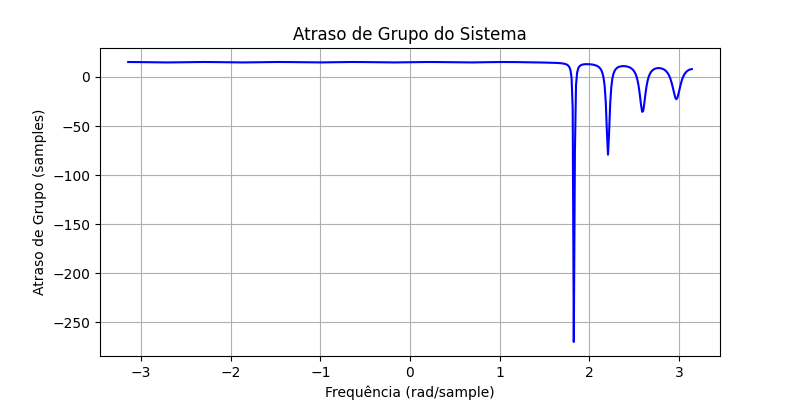
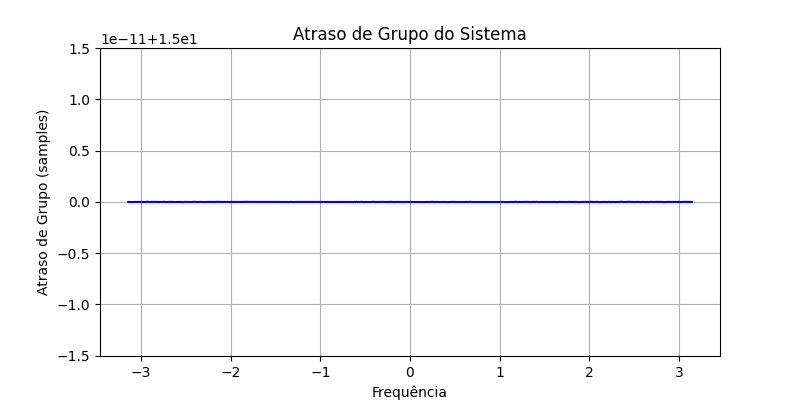
fix: Corrections

diff --git a/low-pass-Filtering.py b/low-pass-Filtering.py
@@ -4,11 +4,18 @@ import matplotlib.pyplot as plt
 from scipy import signal
 
 # Função para plotagem de gráficos
-def plot_graph(x, y,title, xlabel, ylabel, y2=None, label=None,label2=None, color='blue', color2='red'):
+def plot_graph(x, y,title, xlabel, ylabel, y2=None, label=None,label2=None, color='blue', color2='red', mode='plot'):
     plt.figure(figsize=(8, 4))
-    plt.plot(x, y, label=label, color=color)
-    if(y2 is not None):
-        plt.plot(x, y2, label=label2, color=color2)
+    
+    if(mode == 'plot'):
+        plt.plot(x, y, label=label, color=color)
+        if(y2 is not None):
+            plt.plot(x, y2, label=label2, color=color2)
+    elif(mode == 'stem'):
+        plt.stem(x, y, label=label)
+        if(y2 is not None):
+            plt.stem(x, y2, label=label2)
+    
     # Adicionar um título ao gráfico
     plt.title(title)
     # Adicionar rótulos aos eixos
@@ -52,18 +59,17 @@ plot_graph(x, XnFT, 'Módulo da FT do sinal X[n]', 'Frequência', 'Amplitude', c
 cutOffFreq = 0.75 * np.pi # Frequência de corte
 alpha = 15  # Atraso
 # Tamanho da resposta ao impulso
-M = 2 * alpha  # M = 30
+M = (2 * alpha) + 1  # M = 30 
 
-# Amostras de 0 até M-1
+# Amostras de 0 até M (31 amostras)
 n = np.arange(M)
 
 # Resposta ao impulso do filtro passa-baixa FIR
 h_ideal = np.sin(cutOffFreq * (n-alpha)) / (np.pi * (n-alpha))
-h_ideal[alpha] = cutOffFreq / np.pi # Tratar a divisão por zero
+h_ideal[alpha] = 1 # Tratar a divisão por zero (definição do sinc)
 
 
-
-plot_graph(n, h_ideal, 'Resposta ao Impulso do Filtro Passa-Baixa FIR h[n]', 'Tempo', 'Amplitude')
+plot_graph(n, h_ideal, 'Resposta ao Impulso do Filtro Passa-Baixa FIR h[n]', 'Tempo', 'Amplitude', mode='stem')
 
 
 #__________________________ Questão 04 _____________________________________
@@ -79,7 +85,7 @@ plot_graph(x, np.abs(h_idealFT), 'Módulo da Resposta em Frequência do Sistema'
 #__________________________ Questão 05 _____________________________________
 
 # Calcula a resposta em fase da resposta em frequência do sistema
-phase_h_idealFT = np.angle(h_idealFT)
+phase_h_idealFT = np.unwrap(np.angle(h_idealFT))
 
 plot_graph(x, phase_h_idealFT, 'Resposta em Fase do Sistema', 'Frequência', 'Amplitude', color='green')
 
@@ -130,28 +136,30 @@ Gn = np.sum([np.cos(omega * n) for omega in frequencies], axis=0)
 alpha = 15
 
 # Aplica um atraso em G: G[n-alpha]
-Gn_offset = np.roll(Gn, alpha);
+Gn_offset = np.roll(Gn, alpha)
 
 plot_graph(n, Gn_offset, 'Sinais G[n] e Y[n-a]', 'Tempo', 'Amplitude', Yn, 'Sinal g[n-alpha]', 'Sinal y[n]')
 
 #__________________________ Questão 10 _____________________________________
-
-# Explicar aqui quais as vantagens e desvantagens 
-# deste filtro FIR a partir dos gráficos gerados até o momento
+"""
+    O filtro FIR (Finite Impulse Response) tem como vantagem uma resposta em frequência precisa e nítida,
+pois possue uma resposta em frequência caracterizada por uma magnitude retangular (idealmente).
+Isso significa que a magnitude da resposta é constante na faixa de passagem e cai abruptamente para zero na faixa de rejeição.
+"""
 
 
 
 #__________________________ Questão 11 _____________________________________
 
 # Frequência de corte desejada por amostra
-cutOffFreq = 0.75
+cutOffFreq_Hz = 0.75 / (2 * np.pi) #frequência em Hz
 
 # Ordem do filtro Butterworth
 order = 10
 
 # Projetar o filtro Butterworth
 # Os coeficientes ak e bk estão armazenados nos vetores a e b 
-b, a = signal.butter(order, cutOffFreq, btype='low')
+b, a = signal.butter(order, cutOffFreq_Hz, btype='low')
 
 #__________________________ Questão 12 _____________________________________
 
@@ -161,13 +169,13 @@ w, hFreqResponse = signal.freqz(b, a)
 # Definir valores do eixo X
 x = np.linspace(-np.pi, np.pi, len(hFreqResponse))
 
-plot_graph(x, hFreqResponse, 'Módulo da Resposta em Frequência do Filtro Butterworth', 'Frequência', 'Amplitude', color='green')
+plot_graph(x, np.abs(hFreqResponse), 'Módulo da Resposta em Frequência do Filtro Butterworth', 'Frequência', 'Amplitude', color='green')
 
 
 #__________________________ Questão 13 _____________________________________
 
 # Calcula a resposta em fase da resposta em frequência do filtro Butterworth 
-phase_hFreqResponse = np.angle(hFreqResponse)
+phase_hFreqResponse = np.unwrap(np.angle(hFreqResponse))
 
 # Definir valores do eixo X
 x = np.linspace(-np.pi, np.pi, len(phase_hFreqResponse))
